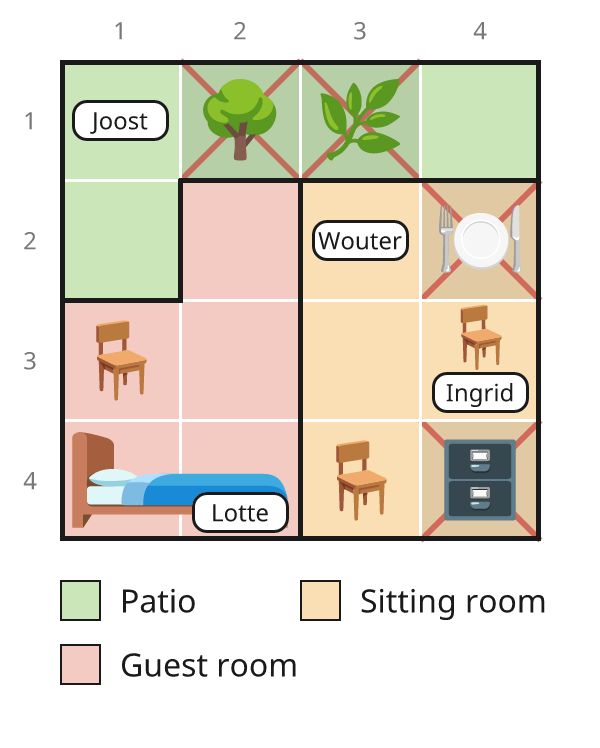
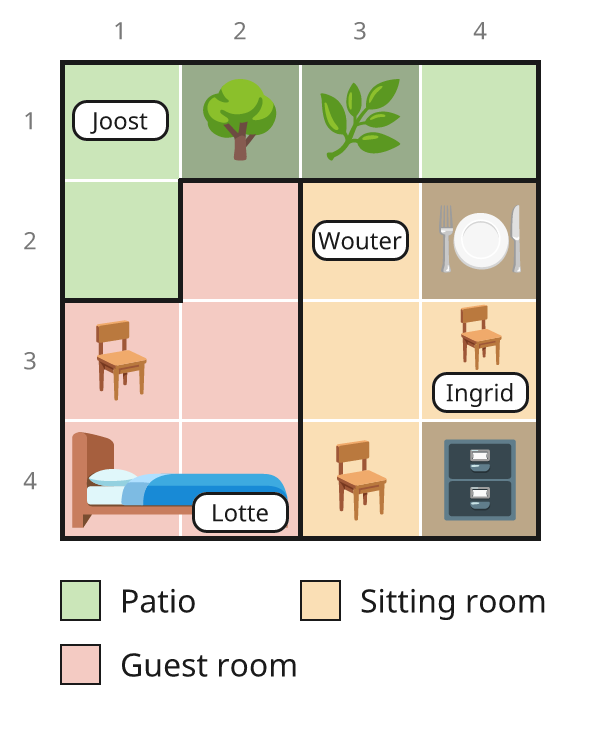
Murdoku: mark blocked squares with a darker shade instead of red crosses
Blocked squares were already shaded slightly darker (0.9); make that 0.75
so they read on their own, and drop the red cross.

Changed region(s): [[0.3, 0.0615, 0.9, 0.3997], [0.69, 0.5535, 0.9, 0.738]]

diff --git a/src/csp/picture.py b/src/csp/picture.py
@@ -10,7 +10,7 @@ one of three variants:
 - blank: the puzzle only (no solution given),
 - solution: the solved board, solved items in blue,
 - interactive (`interactive=True`): the puzzle only, every cell a transparent
-  element with an id such as `r3c4`, and no pre-drawn crosses on blocked cells.
+  element with an id such as `r3c4`.
 
 Murdoku follows the style of the printed puzzles: region fills (darker where
 an object stands), optional diagonal hatching, thick dark lines between
@@ -129,8 +129,6 @@ def murdoku_picture(
             fill = fills[board.region_of(sq)]
             canvas.rectangle(box(sq), fill=_darker(fill) if sq in blocked else fill)
     _hatch(canvas, board, box, cell)
-    if not interactive:
-        _no_entry(canvas, [box(sq) for sq in sorted(blocked)], cell)
     _walls(
         canvas,
         board.size,
@@ -862,7 +860,11 @@ def _rgb(hex_colour: str) -> RGB:
     return int(value[0:2], 16), int(value[2:4], 16), int(value[4:6], 16)
 
 
-def _darker(colour: RGB, factor: float = 0.9) -> RGB:
+# Blocked squares (nobody can stand there) are this much darker than their region.
+BLOCKED_SHADE = 0.75
+
+
+def _darker(colour: RGB, factor: float = BLOCKED_SHADE) -> RGB:
     r, g, b = colour
     return round(r * factor), round(g * factor), round(b * factor)
 
@@ -991,18 +993,6 @@ def _icon(
         side = min(x1 - x0, y1 - y0) * scale
         half = side / 2
         icons.draw(canvas, icon, (cx - half, cy - half, cx + half, cy + half), rotate=turn)
-
-
-def _no_entry(canvas: Canvas, boxes: Sequence[Box], cell: int) -> None:
-    """A translucent red cross over the full diagonals of every blocked square."""
-    if not boxes:
-        return
-    red = (200, 40, 40)
-    width = max(3, cell // 20)
-    with canvas.group(opacity=150 / 255):
-        for x0, y0, x1, y1 in boxes:
-            canvas.line((x0, y0, x1, y1), fill=red, width=width)
-            canvas.line((x0, y1, x1, y0), fill=red, width=width)
 
 
 def _name_tag(canvas: Canvas, person: str, area: Box, cell: int, low: bool = False) -> None:

diff --git a/tests/test_picture.py b/tests/test_picture.py
@@ -151,16 +151,13 @@ def test_interactive_variant_has_cell_ids_and_no_solution():
     assert _raster(interactive).tobytes() == _raster(blank).tobytes()
 
 
-def test_interactive_murdoku_has_no_crosses_or_name_tags():
+def test_interactive_murdoku_has_cell_ids_and_the_blank_board():
     text = (EXAMPLES / "tamagotchi-murdoku-9x9.txt").read_text()
     board, _ = load_board(text)
     canvas = drawing.murdoku_picture(board, legend=False, interactive=True)
     assert "r1c1" in svg.ids(canvas.to_svg())
-    image = _raster(canvas)
-    blocked = sorted(board.blocked)[0]
-    x, y = 60 + blocked.col * 120, 60 + blocked.row * 120
-    r, g, b = image.getpixel((x + 120 // 4, y + 120 // 4))
-    assert not (r > g + 40 and r > b + 40)
+    blank = drawing.murdoku_picture(board, legend=False)
+    assert _raster(canvas).tobytes() == _raster(blank).tobytes()
 
 
 def test_two_square_standable_object_is_stretched_across_both_squares(fake_emoji):
@@ -889,15 +886,17 @@ def test_every_object_and_figure_in_the_examples_has_a_vendored_icon():
     assert checked >= 5
 
 
-def test_blocked_squares_carry_a_red_cross():
+def test_blocked_squares_are_shaded_darker_without_a_cross():
     board, _ = load_board((EXAMPLES / "tamagotchi-murdoku-9x9.txt").read_text())
     image = picture.murdoku_picture(board, legend=False).convert("RGB")
     cell, margin = 120, 60
     blocked = sorted(board.blocked)[0]
     x, y = margin + blocked.col * cell, margin + blocked.row * cell
-    # a quarter of the way along the diagonal, clear of the centre
-    r, g, b = image.getpixel((x + cell // 4, y + cell // 4))
-    assert r > g + 40 and r > b + 40
+    region = picture._rgb(board.colours[board.region_of(blocked)])
+    # A corner of the square, clear of the icon: a plain darker region colour.
+    r, g, b = image.getpixel((x + cell // 12, y + cell // 12))
+    assert (r, g, b) == tuple(round(v * picture.BLOCKED_SHADE) for v in region)
+    assert sum(region) - (r + g + b) > 100
 
 
 def test_picture_ignores_role_booleans_in_the_assignment(tmp_path):

diff --git a/docs/model-and-puzzle-formats.md b/docs/model-and-puzzle-formats.md
@@ -214,7 +214,7 @@ Puzzles of other families (sudoku, queens, tents, …) are included generically:
 
 Needs `uv sync --extra docx` (python-docx, plus fonttools and resvg for the pictures).
 
-In the Murdoku picture, blocked squares carry a translucent red cross behind their object, and area tags (for example `noble_areas`) are named in the legend.
+In the Murdoku picture, blocked squares are shaded clearly darker than their region (standable objects keep the region colour), and area tags (for example `noble_areas`) are named in the legend.
 
 ## Other existing formats
 
@@ -267,7 +267,7 @@ uv run mypy src
 
 Continuous integration runs the same gates on Python 3.12 and 3.13. The tests check brute-force uniqueness for every example, engine agreement, and every logged placement/elimination against the independent solution. The exception is a documented unsupported narrative, such as non-Murdoku `--explain`, not solver correctness.
 
-Pictures have one renderer: `picture.py` draws every family on an `svg.Canvas`, and every other format derives from it. `--svg [FILE]` writes it (needs `uv sync --extra svg` for fonttools, which turns text into paths from the bundled Noto Sans subset, so output does not depend on installed fonts); `--png [FILE]` rasterises it with resvg (`uv sync --extra png`, no system libraries); `--docx` embeds the PNG. Each has three variants: blank, solution (the `-solution` file), and with `--svg --interactive` the blank board with a transparent `<rect id="r<row>c<col>" class="cell">` over every cell (r1c1 top left) and no pre-drawn red crosses on blocked Murdoku squares, for an app to fill in.
+Pictures have one renderer: `picture.py` draws every family on an `svg.Canvas`, and every other format derives from it. `--svg [FILE]` writes it (needs `uv sync --extra svg` for fonttools, which turns text into paths from the bundled Noto Sans subset, so output does not depend on installed fonts); `--png [FILE]` rasterises it with resvg (`uv sync --extra png`, no system libraries); `--docx` embeds the PNG. Each has three variants: blank, solution (the `-solution` file), and with `--svg --interactive` the blank board with a transparent `<rect id="r<row>c<col>" class="cell">` over every cell (r1c1 top left) for an app to fill in.
 
 Pieces come from the icon registry in `icons.py`: each `Icon` has a name, a Unicode `symbol` used by the text boards (★ star, ▲ tent, ♣ tree, ✱ mine, ● bulb, ■ wall/shaded, ●/○ Binairo) and either an original vector shape or a vendored Noto Emoji. Murdoku objects and figure `icon=` names are looked up in `icons.CATALOGUE` (Dutch names plus English synonyms, or `U+<code>`); unknown or unvendored icons fall back to a text label and `--lint` warns. All artwork is vendored under `src/csp/assets/` at pinned commits with its licences (`NOTICE.md`); rendering never uses the network. To add a picture, add the name to `CATALOGUE` and run `uv run python scripts/vendor_emoji.py U+<code>`; `scripts/subset_font.py` rebuilds the font subset.
 

diff --git a/RELEASE_NOTES.md b/RELEASE_NOTES.md
@@ -20,6 +20,7 @@
     * Icon registry (`src/csp/icons.py`): stars, tents, trees, mines, bulbs, walls, discs, signs and DogDoku pieces each have a picture and a Unicode fallback used by the text boards (★ ▲ ♣ ✱ ● ■ ○). Calcudoku prints − × ÷.
     * Icons and font are vendored under `src/csp/assets/` (Noto Emoji SVGs and a Noto Sans subset at pinned commits, licences in `NOTICE.md`); rendering never uses the network and text is drawn as paths, so output does not depend on installed fonts. `scripts/vendor_emoji.py` and `scripts/subset_font.py` rebuild them.
     * Extras: `svg` (fonttools), `png` (+ resvg-py, no system libraries; Pillow no longer needed), `docx` (+ python-docx). Without them `--svg`/`--png`/`--docx` print which extra to install.
+    * Murdoku: blocked squares are now shown by a clearly darker shade of their region instead of a red cross.
     * `--lint` also warns when a figure `icon=` is a valid code point whose picture is not vendored; tests check every object and figure in `examples/` has a vendored icon and every character in the example pictures is in the bundled font. The Murdoku skill and `AGENT.md` describe how to add icons for new objects and families.
 * Star Battle examples now have irregular regions and two or three stars: `starbattle_8x8.txt` and `starbattle_10x10.txt` (two stars) and `starbattle_12x12.txt` (three stars), unique and graded `cover2`, `chains` and `cover3`. They replace `starbattle_4x4.txt` (one star, which is just a Queens puzzle) and the old row-region 8 × 8.
     * Star Battle regions may now have any size from `Stars:` cells up, as long as each is connected (it used to require exactly N cells each).
@@ -27,7 +28,7 @@
     * Queens zones may now have any size from one cell up, as long as each is connected (it used to require exactly N cells each).
     * New examples `dogdoku_5x5.txt`, `dogdoku_7x7.txt`, `dogdoku_9x9.txt`: unique, built backwards from a solving order, and solvable by eliminations only; grades `single`, `subsumption`, `cover2`.
 * Booklets list the puzzles alphabetically by file name and, with more than one puzzle, start with a clickable table of contents (page numbers fill in when Word opens it).
-* Murdoku PNG: blocked squares show a translucent red cross behind their object, so blocking and standable objects are told apart.
+* Murdoku PNG: blocked squares are marked so blocking and standable objects are told apart (now a darker shade, see #75).
 * Booklet lists attributes and roles beside the board; area tags (e.g. "noble areas") are now named in the PNG legend and the booklet rules.
 * Clues thinned in zoo, food-2 and tamagotchi puzzles and sudoku givens in the anti/relations examples (still unique); clearer wording for `furthest`/`alone`; thermometers and mark legends render cleanly; booklet layout follows the Prrrdoku style.
 * [#28 Create docx from puzzle description](https://github.com/operdeck/human-reasoning-puzzles/issues/28)

diff --git a/.github/skills/murdoku-puzzle-generator/SKILL.md b/.github/skills/murdoku-puzzle-generator/SKILL.md
@@ -187,7 +187,7 @@ a text fallback. Do this for each new name before reporting the puzzle:
    and map the name in `OBJECT_ICONS`.
 4. Rerun `--lint` until it reports no icon warnings, then render with
    `--svg` (or `--png`) and look at the picture: the icon must read clearly at
-   cell size and, for blocking objects, behind the red cross. Fix a picture
+   cell size and, for blocking objects, on the darker shading. Fix a picture
    that crops oddly by choosing another emoji rather than editing coordinates.
 5. For a committed example, `uv run pytest tests/test_picture.py -k vendored_icon`
    checks every object and figure in `examples/` has a vendored icon.
@@ -225,8 +225,8 @@ a text fallback. Do this for each new name before reporting the puzzle:
   fallback but can look odd, so check the picture before keeping it. Footprints
   may cross region boundaries (connectivity is the only parser rule), but that
   is unusual and should be noted in the file header.
-  Blocking squares are drawn with a red cross, so a blocking object needs an
-  icon that still reads clearly behind it.
+  Blocking squares are shaded darker than their region, so a blocking object
+  needs an icon that still reads clearly on the darker shade.
 - `EdgeItems:` declares named doors and windows without occupying cells.
   A simple door lists two orthogonally neighboring cells in different areas,
   for example `gate: door r4c5 r4c6`; repeat the name for each door in a wider

diff --git a/AGENT.md b/AGENT.md
@@ -178,7 +178,7 @@ unreachable areas, or unused roles as warnings. `--require-forward` also
 requires a solve without `what_if`. `--svg` or `--png` without a path writes
 `<puzzle-stem>.svg`/`.png` beside the input, and the solved image adds `-solution`;
 an explicit path overrides the default. `--interactive` (with `--svg`) adds cell
-ids for an app and leaves out the solution and red crosses. `--docx [FILE]` (or a quoted glob) writes
+ids for an app and leaves out the solution. `--docx [FILE]` (or a quoted glob) writes
 an editable Word booklet, puzzles first and then solutions, one page each, from
 `docx_export`; new Murdoku puzzles should carry the optional `Title:`, `Intro:`,
 `Figures:`, `Question:`, `Reveal:` and `| wording` booklet text (see the Murdoku
